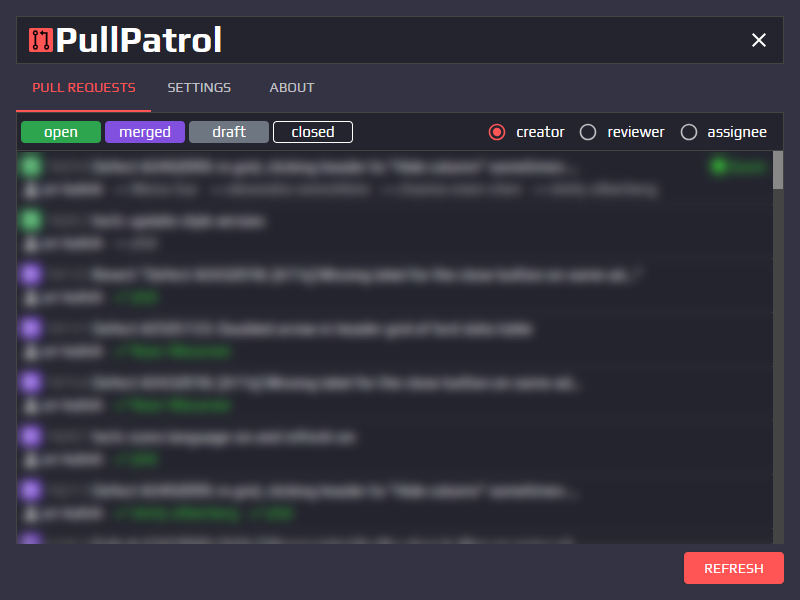
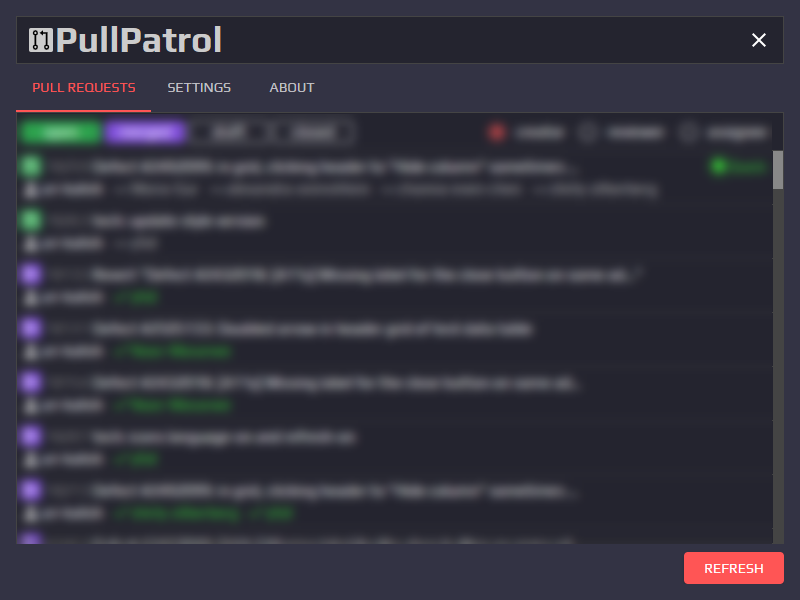
ui styling

Changed region(s): [[0.0, 0.18, 0.4375, 0.27], [0.0312, 0.03, 0.2812, 0.09], [0.5938, 0.21, 0.9688, 0.24]]

diff --git a/client/src/components/AppMasthead/AppMasthead.css b/client/src/components/AppMasthead/AppMasthead.css
@@ -20,7 +20,7 @@
 .header-image {
     width: 24px;
     height: 24px;
-    background-color: #f55;
+    background-color: #ccc;
     border-radius: 2px;
 }
 
@@ -30,6 +30,6 @@
     margin-left: 2px;
     font-size: 36px;
     font-weight: 700;
-    color: #fff;
+    color: #ccc;
     font-family: Play, sans-serif;
 }
